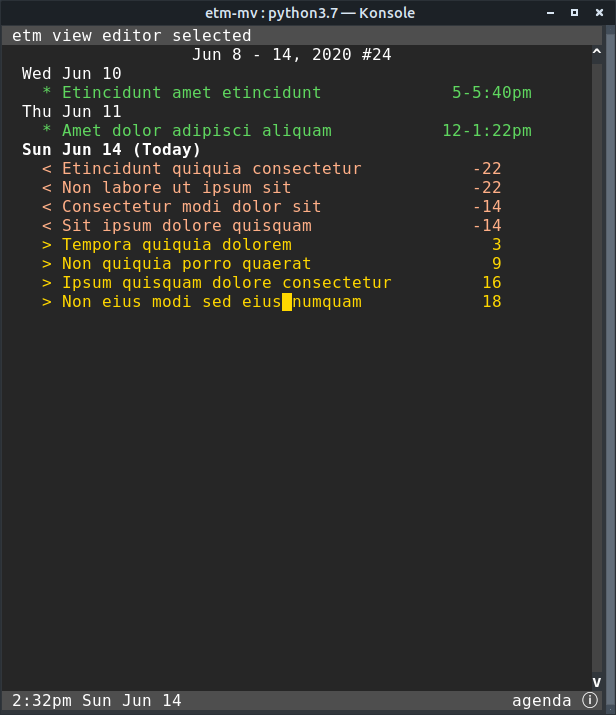
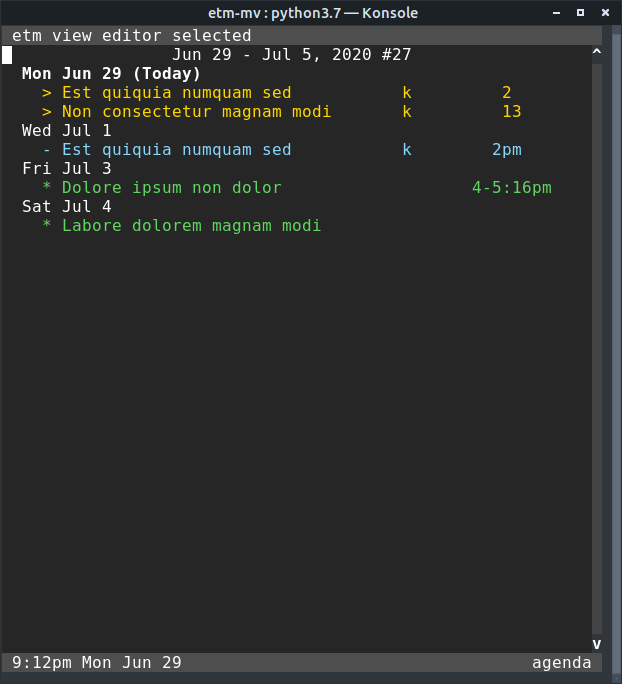
README tweaks. Updated etmview_agenda.png to show flags column.

diff --git a/utilities/make_examples.py b/utilities/make_examples.py
@@ -1,0 +1,118 @@
+#!/usr/bin/python3
+import random
+import lorem
+from dateutil.rrule import *
+from datetime import *
+import pendulum
+
+def parse(s, **kwd):
+    # logger.debug(f"parse: {s} {kwd}")
+    return pendulum.parse(s, strict=False, **kwd)
+
+num_items = 100
+num_konnections = 20
+start = parse('9a 1') - pendulum.duration(months=2)
+until = parse('9a 1') + pendulum.duration(months=3)
+now = parse('9a') - pendulum.duration(days=7)
+
+def phrase(minlen=24):
+    # drop the ending period
+    s = lorem.sentence()[:-1]
+    tmp = ""
+    words = s.split(' ')
+    while words and len(tmp) < minlen:
+        tmp += f"{words.pop(0)} "
+
+    return tmp.strip()
+
+datetimes = list(rrule(DAILY, byweekday=range(7), byhour=range(8, 20), dtstart=start, until=until))
+
+types = ['-', '*', '%', '-']
+# clients = ['A', 'B', 'C', 'D', 'E']
+clients = ['A', 'B', 'C']
+projects = {
+        'A': ['project a1', 'project a2'],
+        'B': ['project b1', 'project b2', 'project b3'],
+        'C': ['project c1', 'project c2'],
+        'D': ['project d1'],
+        'E': ['project e1', 'project e2', 'project e3'],
+        }
+activities = ['phone', 'correspondence', 'conference', 'research']
+locations = ['errands', 'home', 'office', 'shop']
+tags = ['red', 'green', 'blue']
+dates = [0, 0, 1, 0, 0] # dates 1/5 of the time
+minutes = range(10, 90, 6)
+days = range(7)
+extent = range(30, 120, 30)
+
+client_employees = {}
+client_id = {}
+doc_id = 0
+for client in clients:
+    # client records
+    num_employees = random.randint(1, 4)
+    employee_ids = [x for x in range(doc_id + 1, doc_id + 1 + num_employees)]
+    client_employees[client] = employee_ids
+    # add links from client to employees
+    for i in range(len(employee_ids)):
+        doc_id += 1
+        # add employee records
+        print(f"% employee {client}{i+1} @i employees/client {client} @d {lorem.sentence()[:-1]}")
+    doc_id += 1
+    client_id[client] = doc_id
+    # add clients with links from client to employees
+    tmp = ' '.join([f'@k {x}' for x in employee_ids])
+    print(f"% client {client} @i clients @d {lorem.sentence()[:-1]} {tmp}")
+
+konnections = []
+for n in range(num_konnections):
+    client = random.choice(clients)
+    num_employees = random.randint(1, len(client_employees[client]))
+    # print(client_employees, num_employees)
+    employees = random.sample(client_employees[client], k=num_employees)
+    employees.sort()
+    tmp = ' '.join([f'@k {x}' for x in employees])
+
+    konnections.append(f"@k {client_id[client]} {tmp}")
+
+
+
+for n in range(num_items):
+    t = random.choice(types)
+    summary = phrase()
+    start = random.choice(datetimes)
+    date = random.choice(dates)
+    if date:
+        s = start.strftime("%Y-%m-%d")
+    else:
+        s = start.strftime("%Y-%m-%d %I:%M%p")
+    d = lorem.paragraph()
+    i1 = random.choice(clients)
+    i2 = random.choice(projects[i1])
+    i3 = random.choice(activities)
+    used = ""
+    konnect = random.choice(konnections) if random.randint(1, 10) <= 4 else ""
+    for i in range(random.randint(1,2)):
+        u = random.choice(minutes)
+        if random.choice(dates):
+            e = start.strftime("%Y-%m-%d")
+        else:
+            e = (start + pendulum.duration(minutes=u)).strftime("%Y-%m-%d %I:%M%p")
+        used += f"@u {u}m: {e} "
+
+    if t == '*':
+        if date:      # an event
+            print(f"{t} {summary} @s {s} @t {random.choice(tags)} {konnect}")
+        else:
+            x = random.choice(minutes)
+            print(f"{t} {summary} @s {s} @e {x}m @i client {i1}/{i2}/{i3} {used} @d {d} @t {random.choice(tags)} {konnect}")
+    elif t == '-' and random.choice(['h', 't']) == 'h':
+        if start < now:
+            print(f"{t} {summary} @s {s} @i client {i1}/{i2}/{i3} @f {s} {used} @d {d} {konnect}")
+        else:
+            print(f"{t} {summary} @s {s} @i client {i1}/{i2}/{i3} {used} @d {d} @b 21 {konnect}")
+
+    else:
+        print(f"{t} {summary} @i client {i1}/{i2}/{i3} {used} @d {d} @l {random.choice(locations)} @t {random.choice(tags)}")
+
+

diff --git a/README.md b/README.md
@@ -1,8 +1,6 @@
 <img src="https://raw.githubusercontent.com/dagraham/etm-dgraham/master/etmlogo.png" alt="etm" title="event and task manager" width="200px" />
 
-This is the etm user manual. Further information about etm is available at [github](https://github.com/dagraham/etm-dgraham) and in [files](https://groups.io/g/etm/files/).
-
-Please consider joining the etm discussion group at [groups.io](https://groups.io/g/etm).
+This is the etm user manual. Further information about etm is available at [github](https://github.com/dagraham/etm-dgraham) and in the etm discussion group at [groups.io](https://groups.io/g/etm) - note especially the [files](https://groups.io/g/etm/files/) folder.
 
 # Contents
 -   [Overview](#overview)
@@ -440,9 +438,12 @@ When you next create a reminder and enter @n, *etm* will pop up a sorted list of
 
 ## [Views](#overview)
 
+_etm_ has several ways of viewing entries. These are listed below by the shortcut key used to activate the view. E.g., pressing `a` activates _Agenda_ view shown above. In each of the views, the etm menus appear at the top and the status bar at the bottom. The latter displayes the current datetime and the name of the view. The circled-i symbol to the right of view name indicates that inbasket reminders are available to be imported. See [etm menu notes](#etm-menu-notes) for details.
+
 <img src="https://raw.githubusercontent.com/dagraham/etm-dgraham/master/etmview_agenda.png" alt="new" title="new entry" width="450px" hspace="20px"/>
 
-_etm_ has several ways of viewing entries. These are listed below by the shortcut key used to activate the view. E.g., pressing `a` activates _Agenda_ view shown above. In each of the views, the etm menus appear at the top and the status bar at the bottom. The latter displayes the current datetime and the name of the view. The circled-i symbol to the right of view name indicates that inbasket reminders are available to be imported. See [etm menu notes](#etm-menu-notes) for details.
+
+The display for each reminder shows the itemtype and summary column on the left followed by a *flags* column which displays a combination of letters from 'g' (goto), 'k' (connection) and 'p' (pinned) reflecting the presence of these attributes in the reminder. This column is sometimes followed on the extreme right by another column whose contents depends on the view. E.g. in index and journal views the 'id' of the reminder is displayed while in history view, the last modification timestamp of the reminder is displayed.
 
   * a: Agenda: dated unfinished tasks and other reminders by year-week and week day
   * b: Busy: a graphical illustration of busy and conflicted times by year-week
@@ -1020,7 +1021,6 @@ As with other etm views, in query view you can enter `/` or `?` to search increm
 
 While the views differ in many respects, they also share some common aspects:
 
-* The display for each reminder shows the itemtype and summary followed by a *flags* column which displays a combination of letters from 'g' (goto), 'k' (connection) and 'p' (pinned) depending on the presence of these attributes in the reminder. This column is sometimes followed on the extreme right by another column whose contents depends on the view. E.g. in index and journal views the 'id' of the reminder is displayed while in history view, the last modification timestamp of the reminder is displayed.
 * Press `N` in any view to create a new item.
 * Select a reminder by clicking on it or by using the up and down cursor keys to move the cursor to the line displaying the reminder.
 * With a reminder selected, press `return` to toggle displaying the details.
